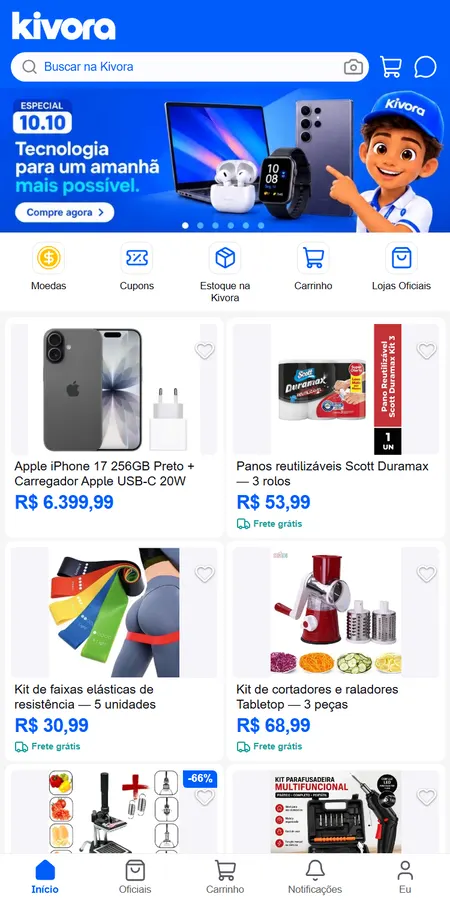
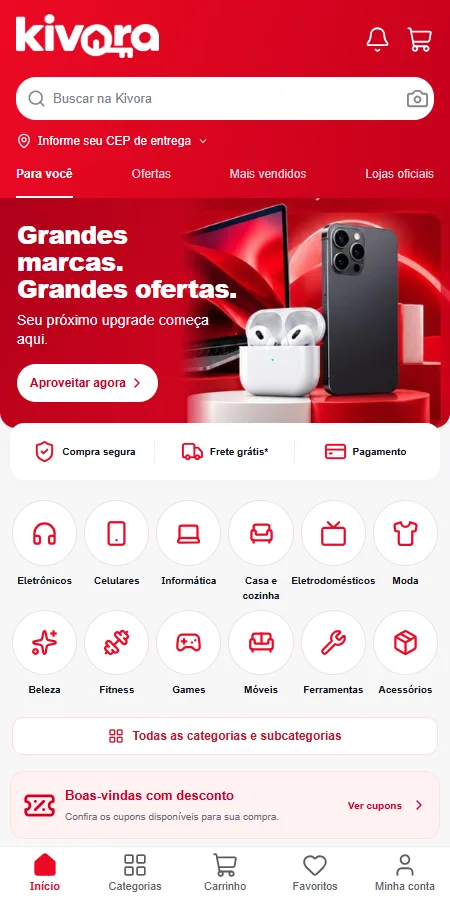
Projetos: prints novos da Kivora com a identidade vermelha
- Computador: página do Galaxy A17 (a home tem um vão ao lado do banner em 1280px)
- Celular: página inicial
- Endereços versionados (?v=2) para não mostrar o print azul guardado em cache

diff --git a/index.html b/index.html
@@ -176,7 +176,7 @@
               <img src="/assets/img/projetos/conectagoogle.webp" alt="" width="1280" height="800" decoding="async">
             </figure>
             <div class="laptop layer" style="--z:.7">
-              <div class="laptop__screen"><img src="/assets/img/projetos/kivora.webp" alt="" width="1280" height="800" fetchpriority="high" decoding="async"></div>
+              <div class="laptop__screen"><img src="/assets/img/projetos/kivora.webp?v=2" alt="" width="1280" height="800" fetchpriority="high" decoding="async"></div>
               <div class="laptop__base"></div>
             </div>
             <figure class="device layer" style="--z:1.15"><img src="/assets/img/projetos/oficinakeke-m.webp" alt="" width="450" height="900" decoding="async"></figure>

diff --git a/assets/js/config.js b/assets/js/config.js
@@ -257,8 +257,8 @@
       plano: 'loja',
       descricao: 'Loja online completa, com busca, departamentos, ofertas relâmpago, cupons, favoritos e carrinho de compras. No celular, funciona como um aplicativo.',
       recursos: ['Busca e departamentos', 'Ofertas e cupons', 'Carrinho e favoritos', 'Conta do cliente'],
-      imagem: '/assets/img/projetos/kivora.webp',
-      imagemCelular: '/assets/img/projetos/kivora-m.webp'
+      imagem: '/assets/img/projetos/kivora.webp?v=2',
+      imagemCelular: '/assets/img/projetos/kivora-m.webp?v=2'
     },
     {
       id: 'jesusnewjob',
